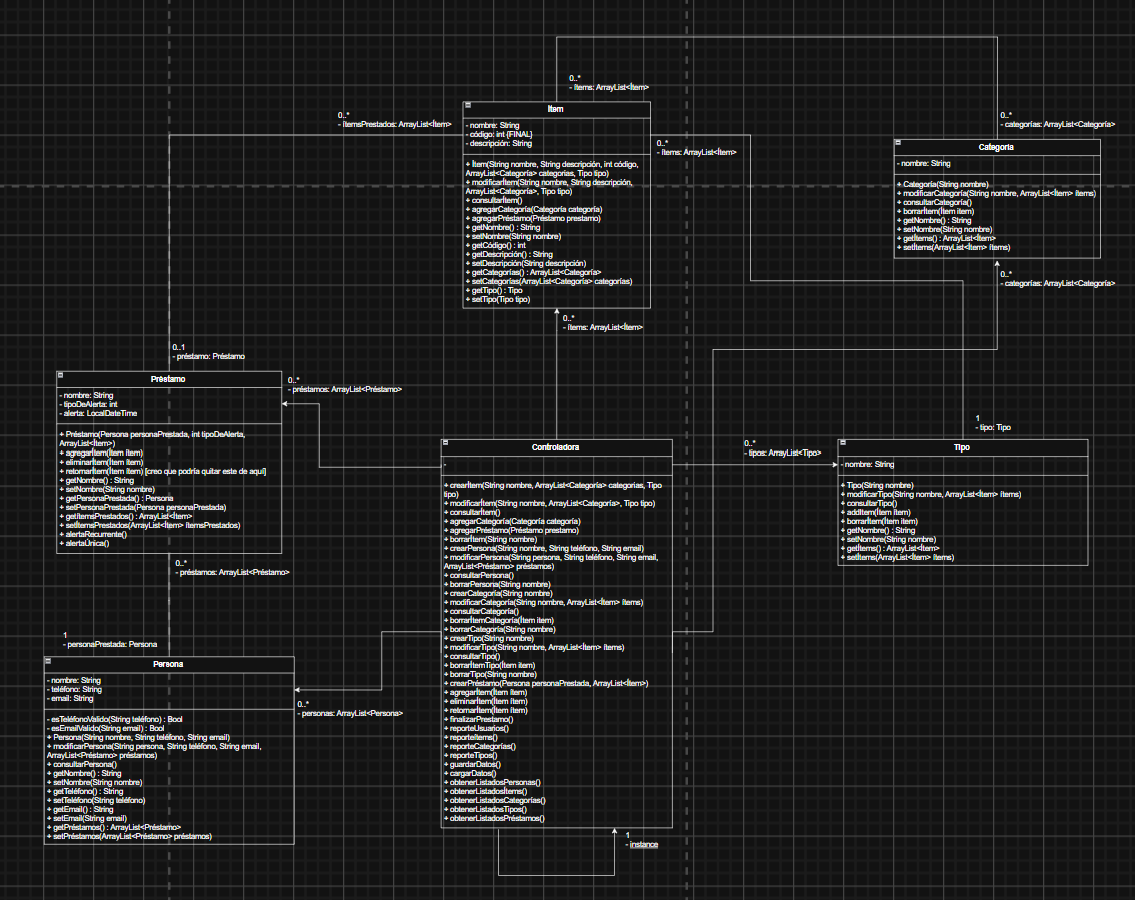
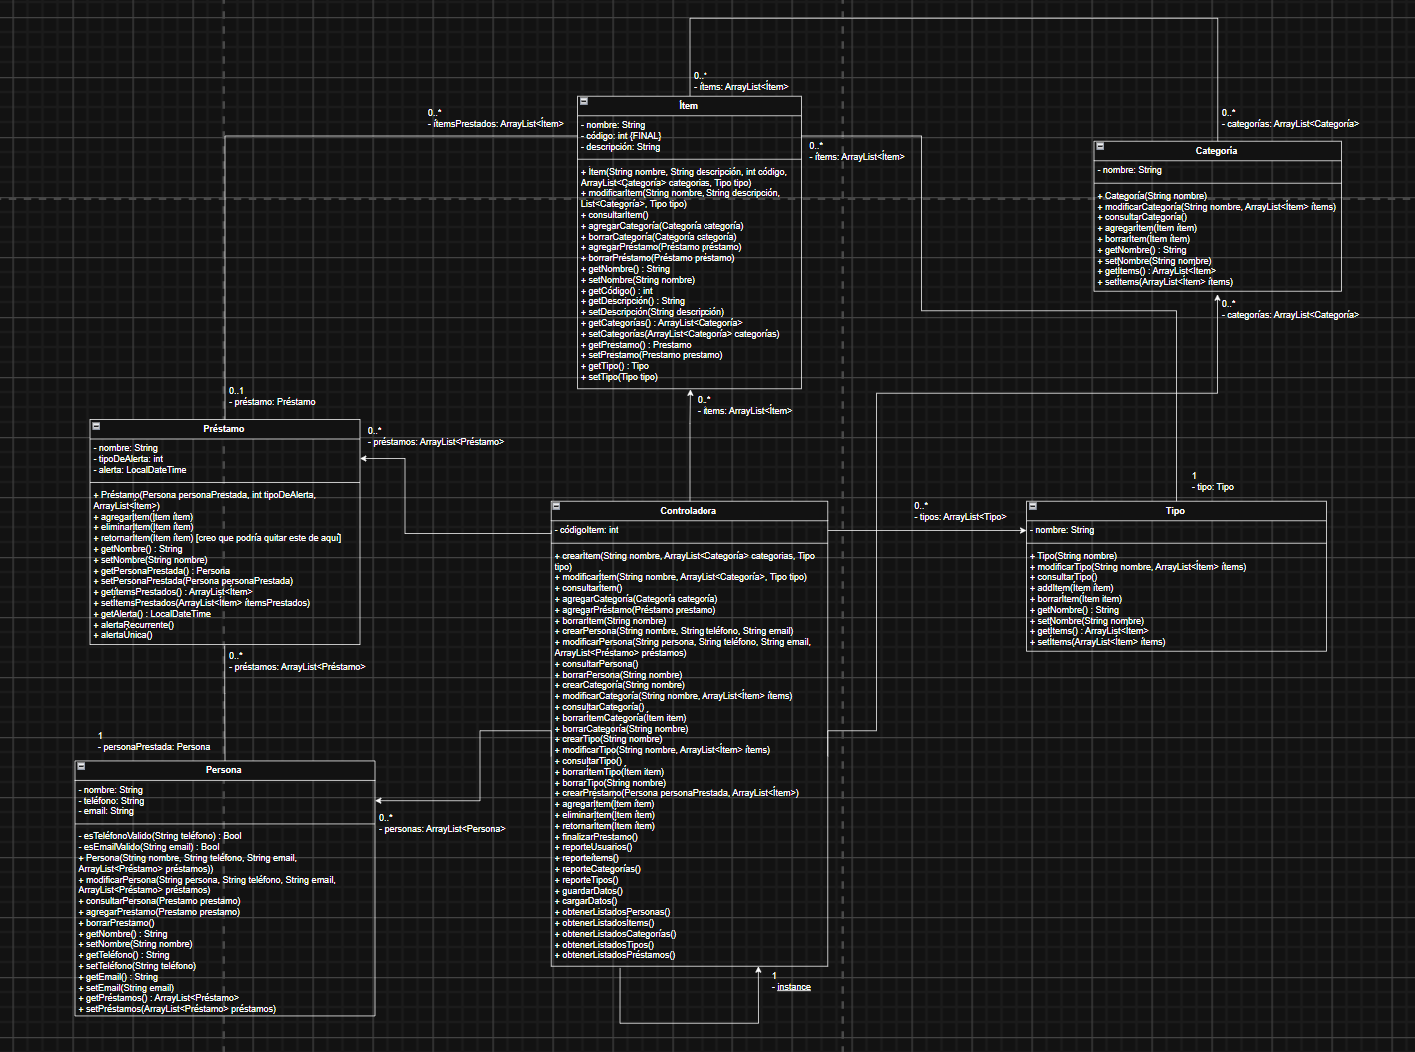
Add files via upload

diff --git a/Proyecto_POO/src/logica/Item.java b/Proyecto_POO/src/logica/Item.java
@@ -1,5 +1,100 @@
 package logica;
 
-public class Item {
+import java.util.ArrayList;
+import java.util.List;
 
+public class Item {
+	private String nombre;
+	private final int codigo;
+	private String descripcion;
+	private Prestamo prestamo = null;
+	private Tipo tipo;
+	private List<Categoria> categorias;
+	
+	public Item(String nombre, String descripcion, int codigo, Tipo tipo) {
+		this.nombre = nombre;
+		this.descripcion = descripcion;
+		this.codigo = codigo;
+		this.tipo = tipo;
+		categorias = new ArrayList<Categoria>();
+	}
+
+	public String getNombre() {
+		return nombre;
+	}
+	public void setNombre(String nombre) {
+		this.nombre = nombre;
+	}
+
+	public String getDescripcion() {
+		return descripcion;
+	}
+	public void setDescripcion(String descripcion) {
+		this.descripcion = descripcion;
+	}
+
+	public Prestamo getPrestamo() {
+		return prestamo;
+	}
+	public void setPrestamo(Prestamo prestamo) {
+		this.prestamo = prestamo;
+	}
+
+	public Tipo getTipo() {
+		return tipo;
+	}
+	public void setTipo(Tipo tipo) {
+		this.tipo = tipo;
+	}
+
+	public List<Categoria> getCategorias() {
+		return categorias;
+	}
+	public void setCategorias(List<Categoria> categorias) {
+		this.categorias = categorias;
+	}
+
+	public int getCodigo() {
+		return codigo;
+	}
+	
+	public void modificarItem(String nombre, String descripcion, List<Categoria> categorias, Tipo tipo) {
+		this.nombre = nombre;
+		this.descripcion = descripcion;
+		this.categorias = categorias;
+		this.tipo = tipo;
+	}
+	
+	public void consultarItem() {
+		System.out.println("Nombre del ítem: " + nombre + "/nDescripción: " + descripcion + 
+				"\nTipo: " + tipo.getNombre() + "\nCategorías: " + categorias.toString());
+	}
+	
+	public void agregarCategoria(Categoria categoria) {
+		categorias.add(categoria);
+	}
+	
+	public void borrarCategoria(Categoria categoria) throws Exception {
+		if (!categorias.contains(categoria)) {
+			throw new Exception("Esa categoría no existe.");
+		}
+		categorias.remove(codigo);
+	}
+	
+	public void agregarPrestamo(Prestamo prestamo) throws Exception {
+		if (this.prestamo != null) {
+			throw new Exception("Este ítem ya tiene un prestamo.");
+		}
+		this.prestamo = prestamo;
+	}
+	
+	public void borrarPrestamo(Prestamo prestamo) throws Exception {
+		if (this.prestamo == null) {
+			throw new Exception("Este ítem no tiene prestamo.");
+		}
+		if (this.prestamo != prestamo) {
+			throw new Exception("El préstamo de este ítem es distinto.");
+		}
+		this.prestamo = null;
+	}
 }

diff --git a/Proyecto_POO/src/logica/Persona.java b/Proyecto_POO/src/logica/Persona.java
@@ -1,0 +1,95 @@
+package logica;
+
+import java.util.ArrayList;
+import java.util.List;
+import java.util.regex.Matcher;
+import java.util.regex.Pattern;
+
+public class Persona {
+	private String nombre;
+	private String telefono;
+	private String email;
+	private List<Prestamo> prestamos;
+	
+	public Persona(String nombre, String telefono, String email) throws Exception {
+		this.nombre = nombre;
+		if (!esNumeroValido(telefono)) {
+			throw new Exception("Telefono invalido.");
+		}
+		this.telefono = telefono;
+		if (!esEmailValido(email)) {
+			throw new Exception("Email invalido.");
+		}
+		this.email = email;
+		prestamos = new ArrayList<Prestamo>();
+	}
+	
+	public String getNombre() {
+		return nombre;
+	}
+	public void setNombre(String nombre) {
+		this.nombre = nombre;
+	}
+
+	public String getTelefono() {
+		return telefono;
+	}
+	public void setTelefono(String telefono) {
+		this.telefono = telefono;
+	}
+
+	public String getEmail() {
+		return email;
+	}
+	public void setEmail(String email) {
+		this.email = email;
+	}
+
+	public List<Prestamo> getPrestamos() {
+		return prestamos;
+	}
+	public void setPrestamos(List<Prestamo> prestamos) {
+		this.prestamos = prestamos;
+	}
+	
+	public void modificarPersona(String nombre, String telefono, String email, List<Prestamo> prestamos) throws Exception {
+		setNombre(nombre);
+		if (!esNumeroValido(telefono)) {
+			throw new Exception("Telefono invalido.");
+		}
+		setTelefono(telefono);
+		if (!esEmailValido(email)) {
+			throw new Exception("Email invalido.");
+		}
+		setEmail(email);
+		setPrestamos(prestamos);
+	}
+	
+	public void consultarPersona() {
+		System.out.println("Nombre: " + getNombre() + " Email: " + getEmail() + " Teléfono: " + getTelefono() +
+				"\n Préstamos: " + getPrestamos());
+	}
+	
+	public void agregarPrestamo(Prestamo prestamo) {
+		prestamos.add(prestamo);
+	}
+	
+	public void borrarPrestamo(Prestamo prestamo) throws Exception {
+		if (!prestamos.contains(prestamo)) {
+			throw new Exception("Prestamo no existe.");
+		}
+		prestamos.remove(prestamo);
+	}
+	
+	private boolean esEmailValido(String email) {
+		Pattern p = Pattern.compile("^[a-zA-Z0-9_!#$%&’*+/=?`{|}~^.-]+@[a-zA-Z0-9.-]+$");
+		Matcher m = p.matcher(email);
+		return m.matches();
+	}
+	
+	private boolean esNumeroValido(String numero) {
+		Pattern p = Pattern.compile("[0-9]+");
+		Matcher m = p.matcher(numero);
+		return m.matches();
+	}
+}

diff --git a/Proyecto_POO/src/logica/Prestamo.java b/Proyecto_POO/src/logica/Prestamo.java
@@ -1,0 +1,75 @@
+package logica;
+
+import java.time.LocalDateTime;
+import java.time.temporal.ChronoUnit;
+import java.util.ArrayList;
+import java.util.List;
+
+public class Prestamo {
+	private String nombre;
+	private int tipoDeAlerta;
+	private LocalDateTime alerta;
+	private Persona personaPrestada;
+	private List<Item> itemsPrestados;
+	
+	public Prestamo(String nombre, int tipoDeAlerta, Persona personaPrestada, int cantidadTiempoAlerta, int tipoDeIncremento) {
+		this.nombre = nombre;
+		this.tipoDeAlerta = tipoDeAlerta;
+		this.personaPrestada = personaPrestada;
+		LocalDateTime temp = LocalDateTime.now();
+		if (tipoDeIncremento == 1) {
+			alerta = temp.plusMinutes(cantidadTiempoAlerta);
+		}
+		else if (tipoDeIncremento == 2) {
+			alerta = temp.plusHours(cantidadTiempoAlerta);
+		}
+		else {
+			alerta = temp.plusDays(cantidadTiempoAlerta);
+		}
+		itemsPrestados = new ArrayList<Item>();
+	}
+
+	public String getNombre() {
+		return nombre;
+	}
+	public void setNombre(String nombre) {
+		this.nombre = nombre;
+	}
+
+	public Persona getPersonaPrestada() {
+		return personaPrestada;
+	}
+	public void setPersonaPrestada(Persona personaPrestada) {
+		this.personaPrestada = personaPrestada;
+	}
+
+	public List<Item> getItemsPrestados() {
+		return itemsPrestados;
+	}
+	public void setItemsPrestados(List<Item> itemsPrestados) {
+		this.itemsPrestados = itemsPrestados;
+	}
+
+	public LocalDateTime getAlerta() {
+		return alerta;
+	}
+	
+	public void agregarItem(Item item) {
+		itemsPrestados.add(item);
+	}
+	
+	public void eliminarItem(Item item) throws Exception {
+		if (!itemsPrestados.contains(item)) {
+			throw new Exception("Item no existe.");
+		}
+		itemsPrestados.remove(item);
+	}
+	
+	public void alertaUnica() {
+		LocalDateTime actualTruncado = LocalDateTime.now().truncatedTo(ChronoUnit.MINUTES);
+		LocalDateTime alertaTruncado = alerta.truncatedTo(ChronoUnit.MINUTES);
+		if (actualTruncado.equals(alertaTruncado)) {
+			System.out.println("Alerta única de " + getNombre() + ".");
+		}
+	}
+}

diff --git a/Proyecto_POO/src/logica/Categoria.java b/Proyecto_POO/src/logica/Categoria.java
@@ -1,6 +1,48 @@
 package logica;
 
+import java.util.ArrayList;
+import java.util.List;
+
 public class Categoria {
 	private String nombre;
 	private List<Item> items;
+	
+	public Categoria(String nombre) {
+		this.nombre = nombre;
+		items = new ArrayList<Item>();
+	}
+
+	public String getNombre() {
+		return nombre;
+	}
+	public void setNombre(String nombre) {
+		this.nombre = nombre;
+	}
+
+	public List<Item> getItems() {
+		return items;
+	}
+	public void setItems(List<Item> items) {
+		this.items = items;
+	}
+	
+	public void modificarCategoría(String nombre, List<Item> items) {
+		this.nombre = nombre;
+		this.items = items;
+	}
+	
+	public void consultarCategoria() {
+		System.out.println("Nombre de categoría: " + getNombre() + "\nÍtems de esta categoría: " + getItems());
+	}
+	
+	public void agregarItem(Item item) {
+		items.add(item);
+	}
+	
+	public void borrarItem(Item item) throws Exception {
+		if (!items.contains(item)) {
+			throw new Exception("Item doesn't exist.");
+		}
+		items.remove(item);
+	}
 }

diff --git a/Proyecto_POO/src/logica/Tipo.java b/Proyecto_POO/src/logica/Tipo.java
@@ -20,24 +20,29 @@ public class Tipo {
 		this.nombre = nombre;
 	}
 	
-	public List<Item> getItem() {
+	public List<Item> getItems() {
 		return items;
 	}
-	public void setItem(List<Item> item) {
-		this.items = item;
+	public void setItems(List<Item> items) {
+		this.items = items;
 	}
 	
-	public void modificarTipo(String nombre, ArrayList<Item> item) {
-		this.nombre = nombre;
-		this.items = item;
+	public void modificarTipo(String nombre, ArrayList<Item> items) {
+		setNombre(nombre);
+		setItems(items);
 	}
+	
+	public void consultarTipo() {
+		System.out.println("Nombre de tipo: " + getNombre() + "\nÍtems de este tipo: " + getItems());
+	}
+	
 	public void addItem(Item item) {
-		this.items.add(item);
+		items.add(item);
 	}
 	public void borrarItem(Item item) throws Exception {
-		if (!this.items.contains(item)) {
+		if (!items.contains(item)) {
 			throw new Exception("Item doesn't exist.");
 		}
-		this.items.remove(item);
+		items.remove(item);
 	}
 }